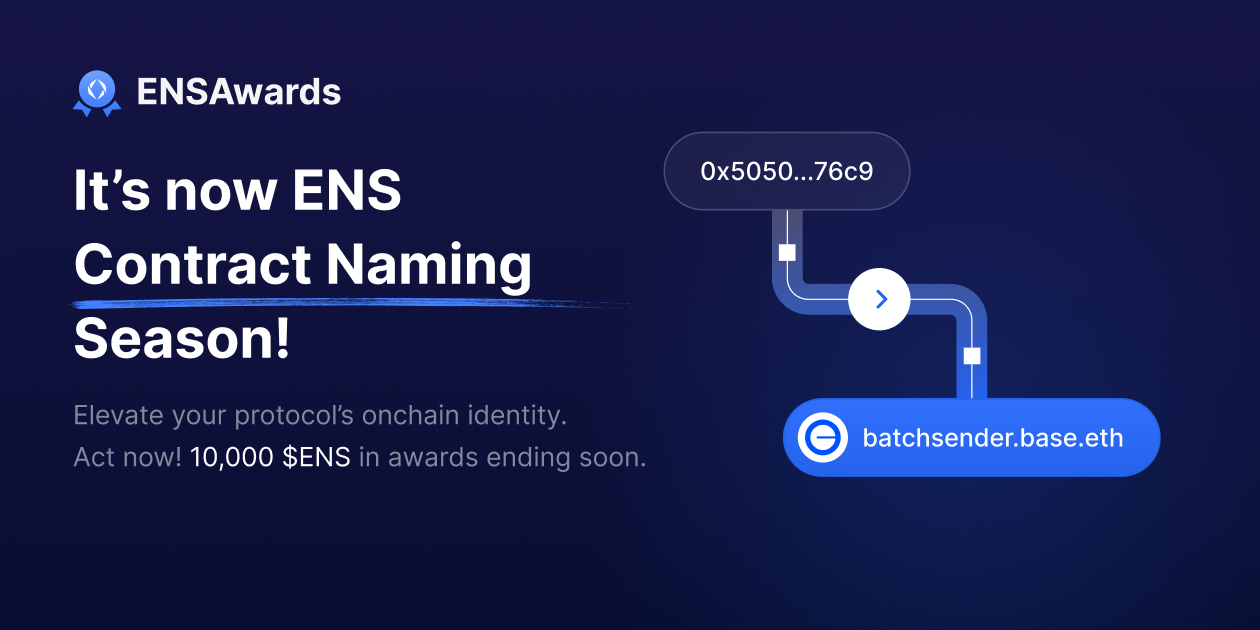
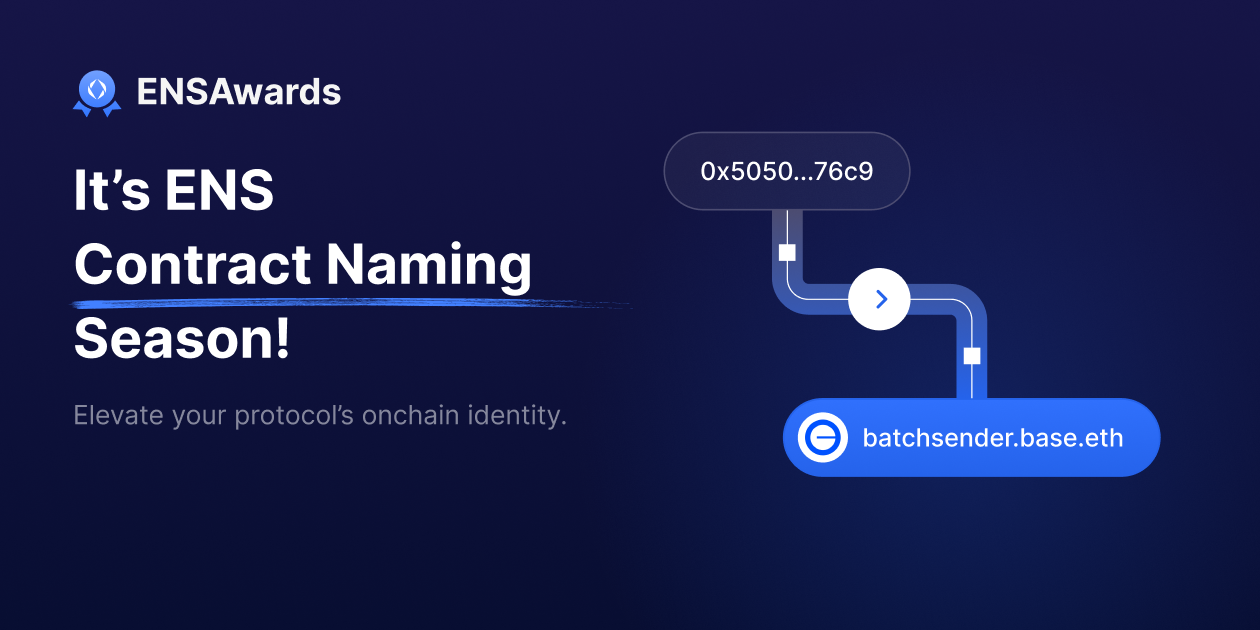
Apply 05/12/26 Google Doc UI feedback

Changed region(s): [[0.0619, 0.6937, 0.5262, 0.754], [0.1238, 0.2714, 0.3405, 0.3317]]

diff --git a/ensawards.org/src/components/atoms/cards/ContributorsCard.tsx b/ensawards.org/src/components/atoms/cards/ContributorsCard.tsx
@@ -131,7 +131,12 @@ export const ContributorsCard = ({
             </div>
           </div>
 
-          <div className={cn("w-full flex flex-col gap-3 sm:gap-4", !sidebarVariant && "lg:w-1/2")}>
+          <div
+            className={cn(
+              "w-full flex flex-col gap-3 sm:gap-4",
+              !sidebarVariant && "lg:w-1/2 lg:items-end",
+            )}
+          >
             <div className="flex flex-wrap items-start gap-3 py-1.5">
               {orderedContributorProfiles.length === 0 ? (
                 <div className="w-full flex flex-col justify-center items-center gap-3 py-3">
@@ -152,33 +157,21 @@ export const ContributorsCard = ({
 
             <div className="w-full h-px bg-border"></div>
 
-            <div
+            <a
+              href={gitHubTargetHref}
+              target="_blank"
+              rel="noreferrer"
               className={cn(
-                "w-full flex flex-col gap-3",
-                !sidebarVariant && "sm:flex-row sm:justify-between sm:items-center",
+                shadcnButtonVariants({
+                  variant: "secondary",
+                  size: "default",
+                  className: "cursor-pointer rounded-full w-fit max-sm:text-wrap max-sm:h-fit",
+                }),
               )}
             >
-              <p className="text-base leading-6 font-normal text-muted-foreground">
-                Submit a contribution
-              </p>
-              <div className="flex flex-row-reverse sm:flex-row justify-end sm:justify-start items-center gap-2 max-sm:self-stretch">
-                <a
-                  href={gitHubTargetHref}
-                  target="_blank"
-                  rel="noreferrer"
-                  className={cn(
-                    shadcnButtonVariants({
-                      variant: "secondary",
-                      size: "default",
-                      className: "cursor-pointer rounded-full max-sm:self-stretch",
-                    }),
-                  )}
-                >
-                  <GitHubOutlineIcon />
-                  Edit on GitHub
-                </a>
-              </div>
-            </div>
+              <GitHubOutlineIcon />
+              Submit a contribution on GitHub
+            </a>
           </div>
         </div>
       </TooltipProvider>
@@ -213,7 +206,7 @@ const ContributorTooltipContent = ({ contributor, identity }: ContributorTooltip
         />
         <a
           href={getEnsAdvocateDetailsRelativePath(contributor.address)}
-          className="text-xs leading-normal text-blue-500 font-normal hover:underline hover:underline-offset-[25%]"
+          className="text-xs leading-normal text-white font-normal underline underline-offset-[25%] decoration-white/40 hover:decoration-white transition-all duration-200"
         >
           View ENS Advocate profile
         </a>
@@ -278,7 +271,12 @@ export const ContributorsCardLoading = ({
         </div>
       </div>
 
-      <div className={cn("w-full flex flex-col gap-3 sm:gap-4", !sidebarVariant && "lg:w-1/2")}>
+      <div
+        className={cn(
+          "w-full flex flex-col gap-3 sm:gap-4",
+          !sidebarVariant && "lg:w-1/2 lg:items-end",
+        )}
+      >
         <div className="flex flex-wrap items-start gap-3 py-1.5">
           <Skeleton className={cn(loadingStyles, "w-10 h-10 rounded-full")} />
           <Skeleton className={cn(loadingStyles, "w-10 h-10 rounded-full")} />
@@ -287,21 +285,7 @@ export const ContributorsCardLoading = ({
 
         <div className="w-full h-px bg-border"></div>
 
-        <div
-          className={cn(
-            "w-full flex flex-col gap-3",
-            !sidebarVariant && "sm:flex-row sm:justify-between sm:items-center",
-          )}
-        >
-          <p className="text-base leading-6 font-normal text-muted-foreground">
-            Submit a contribution
-          </p>
-          <div className="flex flex-row-reverse sm:flex-row justify-end sm:justify-start items-center gap-2 max-sm:self-stretch">
-            <Skeleton
-              className={cn(loadingStyles, "w-[154px] h-[36px] rounded-full max-sm:self-stretch")}
-            />
-          </div>
-        </div>
+        <Skeleton className={cn(loadingStyles, "w-[265px] h-[36px] rounded-full")} />
       </div>
     </div>
   );

diff --git a/ensawards.org/src/components/atoms/banners/PendingAcceptanceTestResultCTA.tsx b/ensawards.org/src/components/atoms/banners/PendingAcceptanceTestResultCTA.tsx
@@ -10,10 +10,14 @@ export interface PendingAcceptanceTestResultCTAProps {
 
 export const PendingAcceptanceTestResultCTA = ({ app }: PendingAcceptanceTestResultCTAProps) => (
   <div className="w-full max-w-[1216px] h-fit flex flex-col items-start justify-start gap-3">
-    <h3 className="text-base leading-normal">Acceptance test result pending</h3>
+    <h3 className="text-base leading-normal">
+      Waiting for a community submission of the result of this acceptance test on {app.name}.
+    </h3>
     <div className="w-full h-px bg-border" />
-    <div className="w-fit flex flex-row justify-start items-center gap-3">
-      <p className="text-base leading-6 font-normal text-muted-foreground">Submit the result</p>
+    <div className="w-full flex flex-row flex-wrap justify-between items-center gap-3">
+      <p className="text-base leading-6 font-normal text-muted-foreground">
+        Contributions are open
+      </p>
       <a
         href={`https://github.com/namehash/ensawards/tree/main/ensawards.org/data/apps/${app.appSlug}/benchmarks/index.tsx`}
         target="_blank"
@@ -27,7 +31,7 @@ export const PendingAcceptanceTestResultCTA = ({ app }: PendingAcceptanceTestRes
         )}
       >
         <GitHubOutlineIcon />
-        Edit on GitHub
+        Submit result on GitHub
       </a>
     </div>
   </div>

diff --git a/ensawards.org/src/components/molecules/technicalDetails/benchmark/acceptanceTestResultDetails.tsx b/ensawards.org/src/components/molecules/technicalDetails/benchmark/acceptanceTestResultDetails.tsx
@@ -36,13 +36,13 @@ export const AcceptanceTestResultFooter = ({
       <TooltipProvider delayDuration={250} skipDelayDuration={0}>
         <div className="w-full flex flex-row flex-wrap justify-between items-center gap-5">
           <p className="w-fit">
-            Last updated{" "}
+            Test completed{" "}
             <span className="text-black font-medium">
               <RelativeTime enforcePast timestamp={lastBenchmarkUpdate.lastUpdated} />
             </span>
           </p>
           <div className="w-fit flex flex-row flex-nowrap justify-end items-center gap-3">
-            by
+            Contributed by
             <DisplayContributorIdentity contributor={lastBenchmarkUpdate.from} />
           </div>
         </div>
@@ -56,10 +56,10 @@ export const AcceptanceTestResultFooterLoading = () => {
   return (
     <div className="w-full flex flex-row flex-wrap justify-between items-center gap-5">
       <div className="w-fit flex flex-row items-center justify-start gap-2">
-        Last updated <div className={cn(loadingStateStyles, "w-[95px] h-4")} />
+        Test completed <div className={cn(loadingStateStyles, "w-[95px] h-4")} />
       </div>
       <div className="w-fit flex flex-row flex-nowrap justify-end items-center gap-3">
-        by
+        Contributed by
         <div className={cn(loadingStateStyles, "w-10 h-10 rounded-full")} />
       </div>
     </div>

diff --git a/ensawards.org/data/ens-best-practices/contract-naming/display-named-smart-contracts-l2-chains/technicalDetails.tsx b/ensawards.org/data/ens-best-practices/contract-naming/display-named-smart-contracts-l2-chains/technicalDetails.tsx
@@ -95,7 +95,7 @@ const implementationRecommendations = (
   </div>
 );
 
-const desiredOutcome = (
+const benefitFromUsingEns = (
   <p>
     Users can easily identify and interact with named smart contracts on an L2 chain, improving
     security and user experience.
@@ -149,7 +149,7 @@ const l2ChainInteractionsDisplayNamedSmartContractsExamplePass = {
 
 const technicalDetails = {
   useCaseSummary: useCaseSummary,
-  desiredOutcome: desiredOutcome,
+  benefitFromUsingEns: benefitFromUsingEns,
   implementationRecommendations: implementationRecommendations,
   acceptanceTests: [
     {

diff --git a/ensawards.org/data/ens-best-practices/contract-naming/display-named-smart-contracts-mainnet/technicalDetails.tsx b/ensawards.org/data/ens-best-practices/contract-naming/display-named-smart-contracts-mainnet/technicalDetails.tsx
@@ -92,7 +92,7 @@ const implementationRecommendations = (
   </div>
 );
 
-const desiredOutcome = (
+const benefitFromUsingEns = (
   <p>
     Users can easily identify and interact with named smart contracts on Ethereum mainnet, improving
     security and user experience.
@@ -150,7 +150,7 @@ const mainnetInteractionsDisplayNamedSmartContractsExamplePass = {
 
 const technicalDetails = {
   useCaseSummary: useCaseSummary,
-  desiredOutcome: desiredOutcome,
+  benefitFromUsingEns: benefitFromUsingEns,
   implementationRecommendations: implementationRecommendations,
   acceptanceTests: [
     {

diff --git a/ensawards.org/data/ens-best-practices/contract-naming/name-your-smart-contracts/technicalDetails.tsx b/ensawards.org/data/ens-best-practices/contract-naming/name-your-smart-contracts/technicalDetails.tsx
@@ -87,7 +87,7 @@ const implementationRecommendations = (
   </p>
 );
 
-const desiredOutcome = (
+const benefitFromUsingEns = (
   <p>
     The users of your protocol can easily verify they're interacting with the correct contracts,
     improving security and user confidence.
@@ -148,7 +148,7 @@ const contractHasPrimaryNameExamplePass = {
 
 const technicalDetails = {
   useCaseSummary: useCaseSummary,
-  desiredOutcome: desiredOutcome,
+  benefitFromUsingEns: benefitFromUsingEns,
   implementationRecommendations: implementationRecommendations,
   acceptanceTests: [
     {

diff --git a/ensawards.org/src/components/molecules/technicalDetails/shared.tsx b/ensawards.org/src/components/molecules/technicalDetails/shared.tsx
@@ -19,10 +19,10 @@ export const DesiredOutcome = ({ bestPractice }: { bestPractice: BestPractice })
         "text-xl w-full flex flex-row items-center justify-between gap-3",
       )}
     >
-      Desired outcome
+      Benefit from using ENS
       <EnsIcon width={28} height={28} className="text-[#0080BC]" />
     </h2>
-    {bestPractice.technicalDetails.desiredOutcome}
+    {bestPractice.technicalDetails.benefitFromUsingEns}
   </div>
 );
 

diff --git a/ensawards.org/data/ens-best-practices/types.ts b/ensawards.org/data/ens-best-practices/types.ts
@@ -24,7 +24,7 @@ export type BestPracticeSlug = string;
 
 export interface BestPracticeTechnicalDetails {
   useCaseSummary: JSX.Element;
-  desiredOutcome: JSX.Element;
+  benefitFromUsingEns: JSX.Element;
   implementationRecommendations: JSX.Element;
   acceptanceTests: [AcceptanceTest, ...AcceptanceTest[]];
 }

diff --git a/ensawards.org/data/shared/test-utils.tsx b/ensawards.org/data/shared/test-utils.tsx
@@ -51,7 +51,7 @@ export const createMockBestPractice = (overrides: {
   technicalDetails: {
     useCaseSummary: <p>Mock use case summary</p>,
     implementationRecommendations: <p>Mock implementation recommendations</p>,
-    desiredOutcome: <p>Mock desired outcome</p>,
+    benefitFromUsingEns: <p>Mock benefit from using ENS</p>,
     acceptanceTests: [
       {
         acceptanceTestSlug: "mock-acceptance-test-slug-1",

diff --git a/CONTRIBUTING.md b/CONTRIBUTING.md
@@ -229,7 +229,7 @@ For reference see [ensawards.org/data/ens-best-practices/contract-naming/name-yo
 ```typescript
 export interface BestPracticeTechnicalDetails {
   useCaseSummary: JSX.Element;
-  desiredOutcome: JSX.Element;
+  benefitFromUsingEns: JSX.Element;
   implementationRecommendations: JSX.Element;
   acceptanceTests: [AcceptanceTest, ...AcceptanceTest[]];
 }